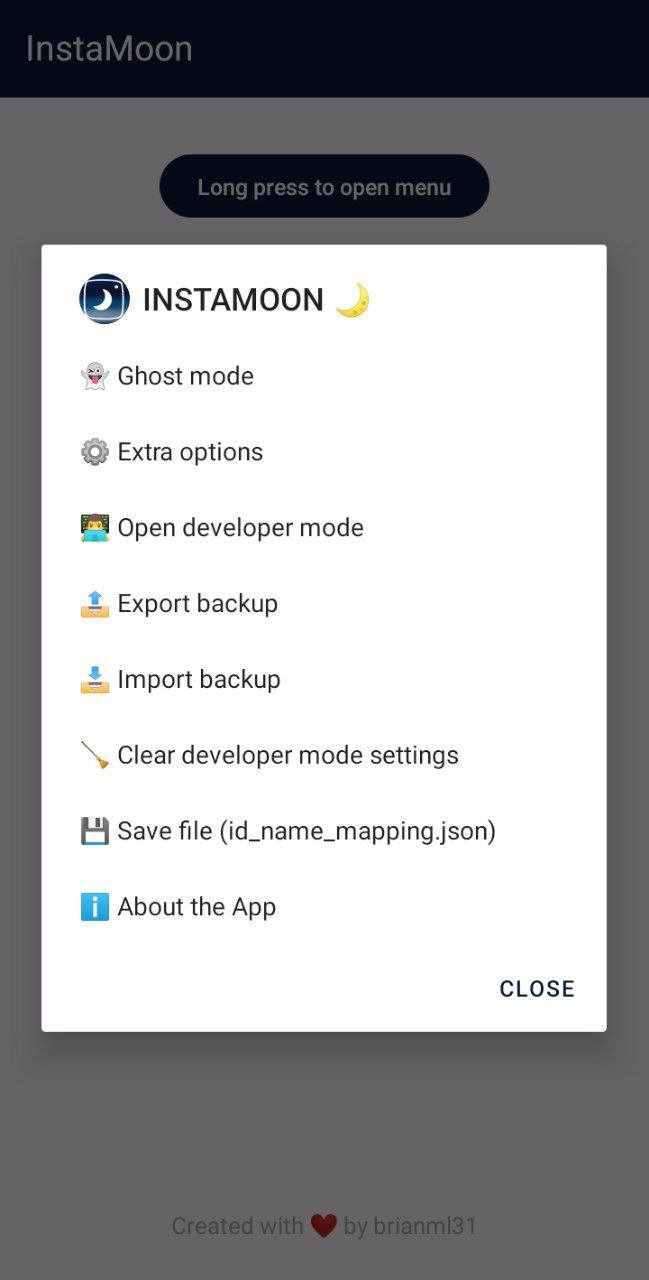
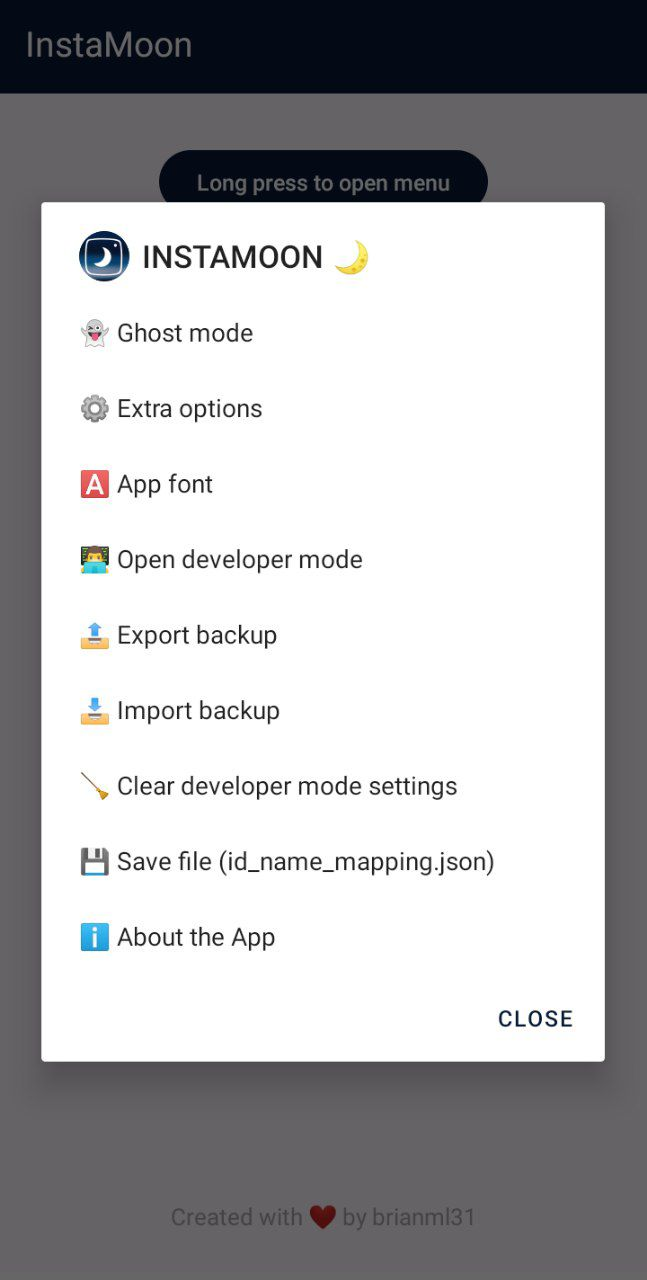
Code improvements
Readme updated
Code improvements

diff --git a/app/src/main/java/com/brianml31/instamoon/utils/FontUtils.kt b/app/src/main/java/com/brianml31/instamoon/utils/FontUtils.kt
@@ -51,9 +51,13 @@ class FontUtils {
         fun onActivityResult(activity: Activity, requestCode: Int, resultCode: Int, data: Intent){
             if (requestCode == REQUEST_CODE_PICK_FONT && data.data != null && resultCode == -1) {
                 val appFontPath = UniFile.fromUri(activity, data.data!!).filePath
-                PrefsUtils.saveString(activity, "appFontPath", appFontPath)
-                ToastUtils.showShortToast(activity, "Done")
-                DialogUtils.showRestartAppDialog(activity)
+                if(appFontPath!!.lowercase().endsWith(".ttf")){
+                    PrefsUtils.saveString(activity, "appFontPath", appFontPath)
+                    ToastUtils.showShortToast(activity, "Done")
+                    DialogUtils.showRestartAppDialog(activity)
+                }else{
+                    ToastUtils.showShortToast(activity, "Selected file is not a .ttf font")
+                }
             }
         }
 

diff --git a/app/src/main/java/com/brianml31/instamoon/utils/GhostModeUtils.kt b/app/src/main/java/com/brianml31/instamoon/utils/GhostModeUtils.kt
@@ -1,6 +1,6 @@
 package com.brianml31.instamoon.utils
 
-import android.util.Log
+//import android.util.Log
 import java.io.IOException
 import java.net.URI
 
@@ -10,7 +10,7 @@ class GhostModeUtils {
         fun validateUriHost(uri: URI) {
             if(uri!=null){
                 var uriPath: String = uri.path
-                Log.i("DEBUG | Uri host",uriPath)
+                //Log.i("DEBUG | Uri host",uriPath)
                 if(uriPath.contains("/v2/media/seen/")){
                     if (hideSeenStories()) {
                         throw IOException("URL has no host")
@@ -36,7 +36,7 @@ class GhostModeUtils {
                         throw IOException("URL has no host")
                     }
                 }
-                if (uriPath.contains("graph.instagram.com") || uriPath.contains("graph.facebook.com") || uriPath.contains("/logging_client_events")) {
+                if (uriPath.contains("graph.instagram.com") || uriPath.contains("graph.facebook.com") || uriPath.contains("/logging_client_events") || uriPath.contains("/pigeon_nest")) {
                     if (ExtraOptionsUtils.disableAnalytics()) {
                         throw IOException("URL has no host")
                     }

diff --git a/app/src/main/java/com/brianml31/instamoon/utils/DialogUtils.kt b/app/src/main/java/com/brianml31/instamoon/utils/DialogUtils.kt
@@ -311,7 +311,7 @@ class DialogUtils {
         }
 
         private fun showAboutAppDialogDialog(context: Context) {
-            val alertDialog = buildAlertDialog(context, "ABOUT THE APP ℹ️", "InstaMoon \uD83C\uDF19 "+Constants.VERSION+"\n\n⭒Developed by brianml31⭒\n\nBased on version: "+Utils.getVersionName(context)+"\n\nThanks to:\n⋆ Monserrat G\n⋆ Revanced\n⋆ Marcos shiinaider\n⋆ Amàzing World", null)
+            val alertDialog = buildAlertDialog(context, "ABOUT THE APP ℹ️", "InstaMoon \uD83C\uDF19 "+Constants.VERSION+"\n\n⭒Developed by brianml31⭒\n\nBased on version: "+Utils.getVersionName(context)+"\n\nThanks to:\n⋆ Monserrat G\n⋆ Revanced\n⋆ Marcos shiinaider\n⋆ Amàzing World\n⋆ seven332 (library - UniFile)\n⋆ ACRA", null)
             alertDialog.setNeutralButton("CHECK UPDATE", object : DialogInterface.OnClickListener {
                 override fun onClick(dialog: DialogInterface, which: Int) {
                     val updateTask = UpdateTask(context)

diff --git a/app/src/main/java/com/brianml31/insta_moon/InstagramInjectionManager.java b/app/src/main/java/com/brianml31/insta_moon/InstagramInjectionManager.java
@@ -90,10 +90,14 @@ public class InstagramInjectionManager {
     }
 
     //App font
-
     public static Typeface getCustomFont(Typeface typeface){
         Log.i(", does not have a backing source. You need to provide either a systemFontName, assetFontName, or a fileDescriptor.","Ljava/util/Map;->put(Ljava/lang/Object;Ljava/lang/Object;)Ljava/lang/Object;");
         return FontUtils.Companion.getCustomFont(typeface);
+    }
+
+    //Remove snooze warning
+    public static void removeSnoozeWarning(){
+        Log.i("invoke-direct\\s*\\{\\s*v\\d+\\s*,\\s*v\\d+\\s*\\},\\s*Lcom/instagram/release/lockout/DogfoodingEligibilityApi;-><init>", "const/4 vX, 0x0");
     }
 
 }

diff --git a/README.md b/README.md
@@ -16,7 +16,7 @@ InstaMoon is a reverse-engineered injectable menu that enhances your Instagram e
 > **Note:** If you use any of the materials in this repository, please give proper credit by mentioning **Instamoon**. A simple mention or link is appreciated!
 <hr>
 
-**Recommended Instagram version:** [`403.0.0.0.0 alpha`](https://www.apkmirror.com/apk/instagram/instagram-instagram/instagram-403-0-0-0-0-release/instagram-403-0-0-0-0-2-android-apk-download/)
+**Recommended Instagram version:** [`409.0.0.0.157 alpha`](https://www.apkmirror.com/apk/instagram/instagram-instagram/instagram-409-0-0-0-157-release/instagram-409-0-0-0-157-2-android-apk-download/)
 
 <details>
 <summary><h3>Features</h3></summary>
@@ -37,8 +37,11 @@ InstaMoon is a reverse-engineered injectable menu that enhances your Instagram e
 - Disable 'Like' with double tap
 - Hide suggested reels
 
+### 🅰️ App font
+- Set a custom font for the app
+
 ### 🧪 Developer Mode
-- Access to instagram's in-development features.
+- Access to instagram's in-development features
 
 ### 📤 Export Developer Mode Settings
 - Export your developer mode configurations
@@ -91,3 +94,5 @@ InstaMoon is a reverse-engineered injectable menu that enhances your Instagram e
 - [Revanced](https://github.com/revanced)
 - [Marcos shiinaider - InstaFlow](https://github.com/Mshiinaider)
 - **Amàzing World**
+- [seven332 - library (UniFile)](https://github.com/seven332/UniFile)
+- [ACRA](https://github.com/ACRA/acra)